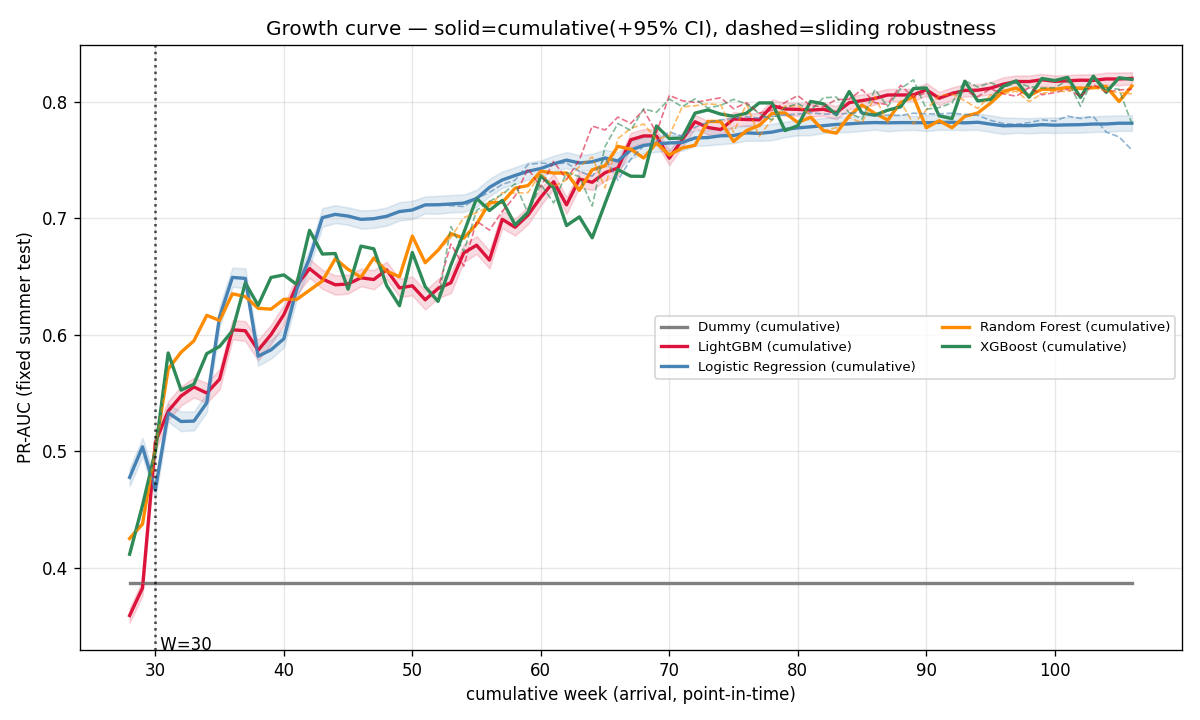
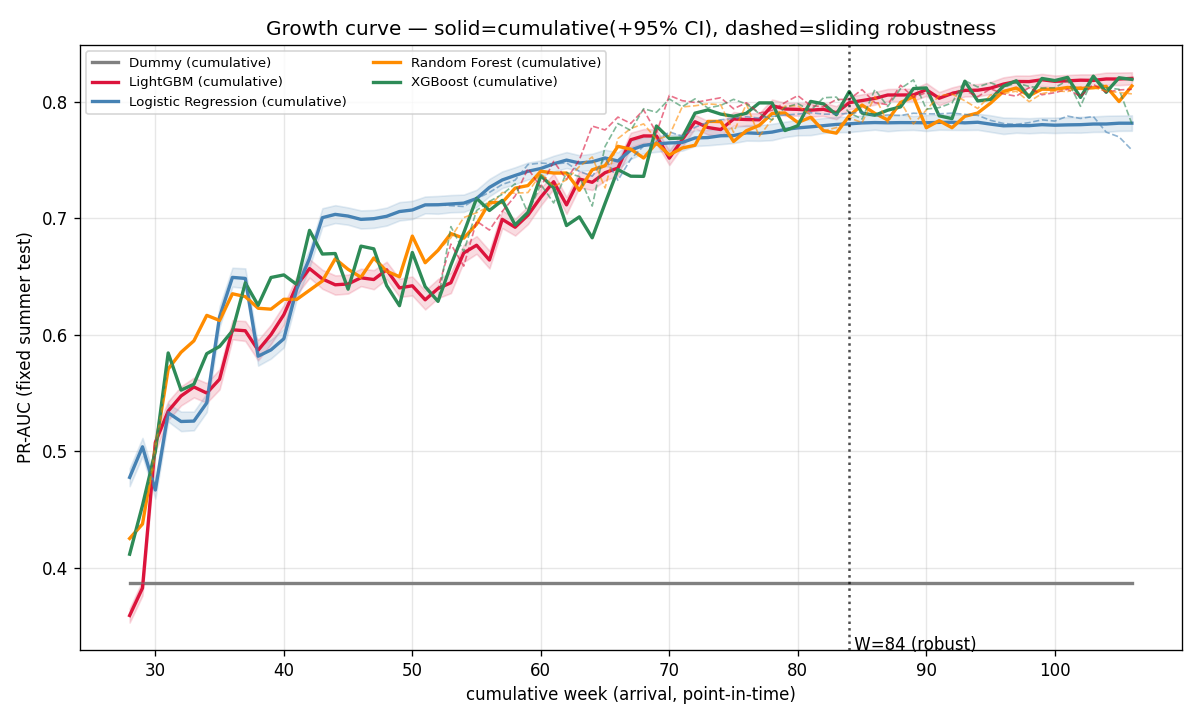
fix: 전환주차 W를 robust 정의로 (지속성) + --replot 추가
학교서버 full 결과 분석 중 발견: 기존 W(최초 1회 CI분리)가 소표본
노이즈(week 30)를 잡음. robust W = '이후 끝까지 LGB>LR 지속되는 첫 주차'로 수정.
full 결과 재플롯: W=30(허위) → W=84(robust). 곡선 갱신.
--replot: 재학습 없이 agg.csv로 곡선·W 재생성.

diff --git a/src/growth_curve.py b/src/growth_curve.py
@@ -130,6 +130,68 @@ def bootstrap_ci(y_true, proba, n_boot, rng):
     return float(np.percentile(aps, 2.5)), float(np.percentile(aps, 97.5))
 
 
+PALETTE = {"Dummy": "gray", "Logistic Regression": "steelblue",
+           "Random Forest": "darkorange", "XGBoost": "seagreen", "LightGBM": "crimson"}
+
+
+def compute_robust_W(agg):
+    """robust 전환주차 = 누적창에서 LGB CI하한 > LR CI상한이 '이후 끝까지 지속'되는 첫 주차.
+    소표본 1회성 노이즈 분리를 배제한다(발표 방어용). 그런 주차가 없으면 None."""
+    cum = agg[agg["window"] == "cumulative"]
+    if not {"ci_low", "ci_high"}.issubset(cum.columns):
+        return None
+    sub = cum[cum["model"].isin(["Logistic Regression", "LightGBM"])]
+    if sub.empty:
+        return None
+    piv = sub.pivot(index="cutoff_week", columns="model", values=["ci_low", "ci_high"])
+    wks = sorted(piv.index)
+
+    def lgb_over_lr(w):
+        try:
+            lg = piv.loc[w, ("ci_low", "LightGBM")]
+            lr = piv.loc[w, ("ci_high", "Logistic Regression")]
+            return pd.notna(lg) and pd.notna(lr) and lg > lr
+        except KeyError:
+            return False
+
+    for i, wk in enumerate(wks):
+        if all(lgb_over_lr(w) for w in wks[i:]):
+            return int(wk)
+    return None
+
+
+def finalize(agg, t_start=None):
+    """W 계산 + 곡선 플롯 + 저장. 학습 결과(agg)와 --replot(csv 로드) 양쪽에서 재사용."""
+    W = compute_robust_W(agg)
+    print(f"\n★ robust 전환주차 W = {W}  (LGB CI하한 > LR CI상한이 끝까지 지속되는 첫 누적주차)")
+
+    fig, axA = plt.subplots(figsize=(10, 6))
+    cum = agg[agg["window"] == "cumulative"]
+    for name, g in cum.groupby("model"):
+        g = g.sort_values("cutoff_week")
+        c = PALETTE.get(name, "black")
+        axA.plot(g["cutoff_week"], g["pr_auc"], "-", color=c, lw=2, label=f"{name} (cumulative)")
+        if {"ci_low", "ci_high"}.issubset(g.columns) and g["ci_low"].notna().any():
+            axA.fill_between(g["cutoff_week"], g["ci_low"], g["ci_high"], color=c, alpha=0.15)
+    sld = agg[agg["window"] == "sliding"]
+    for name, g in sld.groupby("model"):
+        g = g.sort_values("cutoff_week")
+        axA.plot(g["cutoff_week"], g["pr_auc"], "--", color=PALETTE.get(name, "black"),
+                 lw=1, alpha=0.6)
+    if W is not None:
+        axA.axvline(W, color="black", ls=":", alpha=0.7)
+        axA.text(W, axA.get_ylim()[0], f" W={W} (robust)", fontsize=10)
+    axA.set_xlabel("cumulative week (arrival, point-in-time)")
+    axA.set_ylabel("PR-AUC (fixed summer test)")
+    axA.set_title("Growth curve — solid=cumulative(+95% CI), dashed=sliding robustness")
+    axA.legend(fontsize=8, ncol=2); axA.grid(alpha=0.3)
+    plt.tight_layout()
+    fig.savefig(RESULTS / "growth_curve.png", dpi=120)
+    print(f"\n[산출물]\n  results/growth_curve_raw.csv\n  results/growth_curve_agg.csv\n  results/growth_curve.png")
+    if t_start is not None:
+        print(f"[완료] {time.time()-t_start:.0f}s")
+
+
 def main():
     ap = argparse.ArgumentParser()
     ap.add_argument("--quick", action="store_true", help="스모크: 구간 5개 + 시드 1 + boot 100")
@@ -137,7 +199,13 @@ def main():
     ap.add_argument("--seeds", type=int, default=len(SEEDS_DEFAULT))
     ap.add_argument("--windows", choices=["cumulative", "sliding", "both"], default="both")
     ap.add_argument("--stride", type=int, default=1, help="누적 컷오프 N개마다 1개만 (곡선 점 수 축소·속도↑)")
+    ap.add_argument("--replot", action="store_true", help="학습 생략, 기존 agg.csv로 곡선·W만 재생성")
     args = ap.parse_args()
+
+    if args.replot:
+        print("[replot] 기존 results/growth_curve_agg.csv 로 곡선·W 재생성 (학습 생략)")
+        finalize(pd.read_csv(RESULTS / "growth_curve_agg.csv"))
+        return
 
     seeds = SEEDS_DEFAULT[:args.seeds]
     n_boot = args.boot
@@ -239,45 +307,7 @@ def main():
         agg = agg.merge(ci, on=["cutoff_week", "model"], how="left")
     agg.to_csv(RESULTS / "growth_curve_agg.csv", index=False)
 
-    # 전환 주차 W: 누적창에서 LGB CI하한 > LR CI상한 첫 주차
-    W = None
-    if not ci.empty and {"Logistic Regression", "LightGBM"} <= set(ci["model"].unique()):
-        piv = ci.pivot(index="cutoff_week", columns="model", values=["ci_low", "ci_high"])
-        for wk in sorted(piv.index):
-            lg_low = piv.loc[wk, ("ci_low", "LightGBM")]
-            lr_hi  = piv.loc[wk, ("ci_high", "Logistic Regression")]
-            if pd.notna(lg_low) and pd.notna(lr_hi) and lg_low > lr_hi:
-                W = int(wk); break
-    print(f"\n★ 전환 주차 W = {W}  (LightGBM CI하한 > LR CI상한 첫 누적주차)")
-
-    # 플롯: 누적 5곡선 + CI밴드 + 슬라이딩 오버레이
-    PALETTE = {"Dummy": "gray", "Logistic Regression": "steelblue",
-               "Random Forest": "darkorange", "XGBoost": "seagreen", "LightGBM": "crimson"}
-    fig, axA = plt.subplots(figsize=(10, 6))
-    cum = agg[agg["window"] == "cumulative"]
-    for name, g in cum.groupby("model"):
-        g = g.sort_values("cutoff_week")
-        c = PALETTE.get(name, "black")
-        axA.plot(g["cutoff_week"], g["pr_auc"], "-", color=c, lw=2, label=f"{name} (cumulative)")
-        if {"ci_low", "ci_high"} <= set(g.columns) and g["ci_low"].notna().any():
-            axA.fill_between(g["cutoff_week"], g["ci_low"], g["ci_high"], color=c, alpha=0.15)
-    sld = agg[agg["window"] == "sliding"]
-    for name, g in sld.groupby("model"):
-        g = g.sort_values("cutoff_week")
-        axA.plot(g["cutoff_week"], g["pr_auc"], "--", color=PALETTE.get(name, "black"),
-                 lw=1, alpha=0.6)
-    if W is not None:
-        axA.axvline(W, color="black", ls=":", alpha=0.7)
-        axA.text(W, axA.get_ylim()[0], f" W={W}", fontsize=10)
-    axA.set_xlabel("cumulative week (arrival, point-in-time)")
-    axA.set_ylabel("PR-AUC (fixed summer test)")
-    axA.set_title("Growth curve — solid=cumulative(+95% CI), dashed=sliding robustness")
-    axA.legend(fontsize=8, ncol=2); axA.grid(alpha=0.3)
-    plt.tight_layout()
-    fig.savefig(RESULTS / "growth_curve.png", dpi=120)
-
-    print(f"\n[산출물]\n  results/growth_curve_raw.csv\n  results/growth_curve_agg.csv\n  results/growth_curve.png")
-    print(f"[완료] {time.time()-t_start:.0f}s")
+    finalize(agg, t_start)
 
 
 if __name__ == "__main__":
